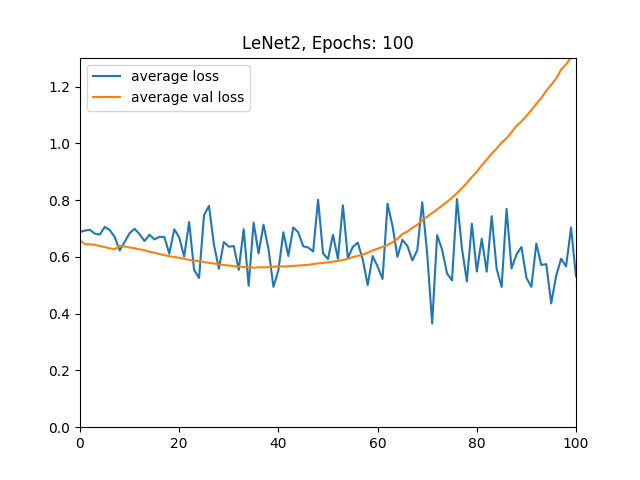
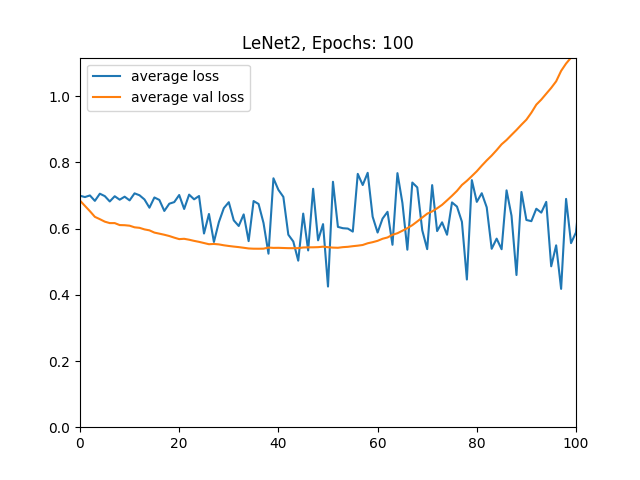
adjusted plot labels added accuracy

diff --git a/model_actions/train.py b/model_actions/train.py
@@ -30,21 +30,26 @@ def train(dataloader, valdataloader, model, loss_fn, optimizer, epochs=100):
     valavg = []
     for epoch in range(epochs):
         
+        total = 0
+        correct = 0
         for batch, sample in enumerate(dataloader):
 
             image, grid = sample["image"].to(device), sample["grid"].to(device)
             i = 0
             for image_square in split_image(image):
-                pred = model(image_square)
-                
                 grid_val = grid[0][i].unsqueeze(0).unsqueeze(0)
                 
-                loss = loss_fn(pred, grid_val.type(torch.float32))  
-
                 optimizer.zero_grad()
+                pred = model(image_square)
+                loss = loss_fn(pred, grid_val.type(torch.float32))  
                 loss.backward()
                 optimizer.step()
+
                 losses.append(loss.item())
+                _, predicted = pred.max(1)
+                total += 1
+                correct += predicted.eq(grid_val).sum().item()
+
                 i += 1
             if batch % 10 == 0:
                 os.system('cls')
@@ -53,7 +58,7 @@ def train(dataloader, valdataloader, model, loss_fn, optimizer, epochs=100):
 
                 lossavg.append(meanloss)
                 
-                print(f"loss: {loss:>f} [{current:>5d}/{size:>5d}]\naverage validation loss: {meanvalloss:>f}\naverage loss: {meanloss:>f}")
+                print(f"loss: {loss:>f} [{current:>5d}/{size:>5d}]\naverage loss: {meanloss:>f}\naverage validation loss: {meanvalloss:>f}\nAccuracy: {correct/total * 100.}% ({correct}/{total})")
 
         val , _ = test(valdataloader, model, loss_fn)
         valloss.append(val.item())

diff --git a/model_actions/test.py b/model_actions/test.py
@@ -45,8 +45,8 @@ def test(dataloader, model, loss_fn):
                 valloss.append(loss.item())
                 valavg.append(np.mean(valloss[-50:]))
                 
-                os.system('cls')
-                print(f"batch: {batch}\nImage: [{i + 1}/16]\nTest Loss: {loss:>f}\nAverage Loss: {np.mean(valloss[-50:])}")
+                # os.system('cls')
+                # print(f"batch: {batch}\nImage: [{i + 1}/16]\nTest Loss: {loss:>f}\nAverage Loss: {np.mean(valloss[-50:])}")
 
                 i += 1
 

diff --git a/utils/plotloss.py b/utils/plotloss.py
@@ -5,8 +5,8 @@ def plot_loss(title, lossavg, epochs, valavg, maxloss):
     plt.ioff()
 
 
-    plt.plot(lossavg, label='average loss')
-    plt.plot(valavg, label='average val loss')
+    plt.plot(lossavg, label='train loss')
+    plt.plot(valavg, label='val loss')
     
     plt.title(f"{title}, Epochs: {epochs}")
     plt.axis((0, epochs, 0, maxloss))
